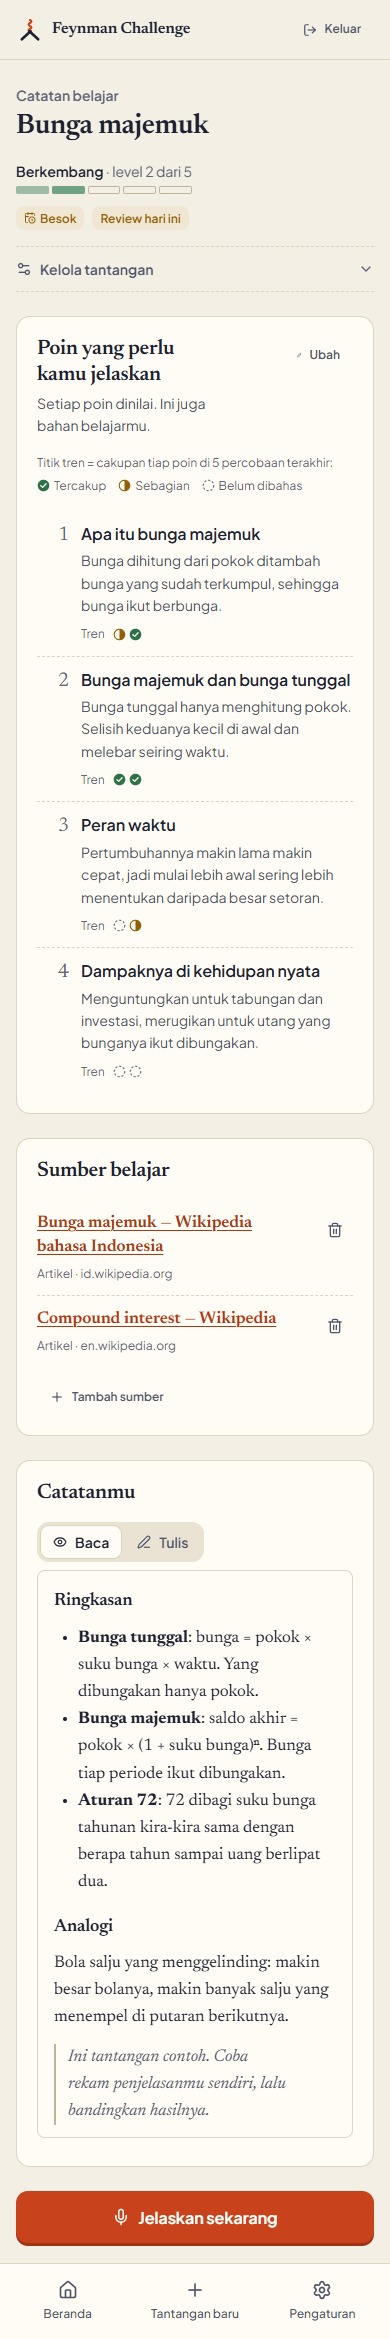
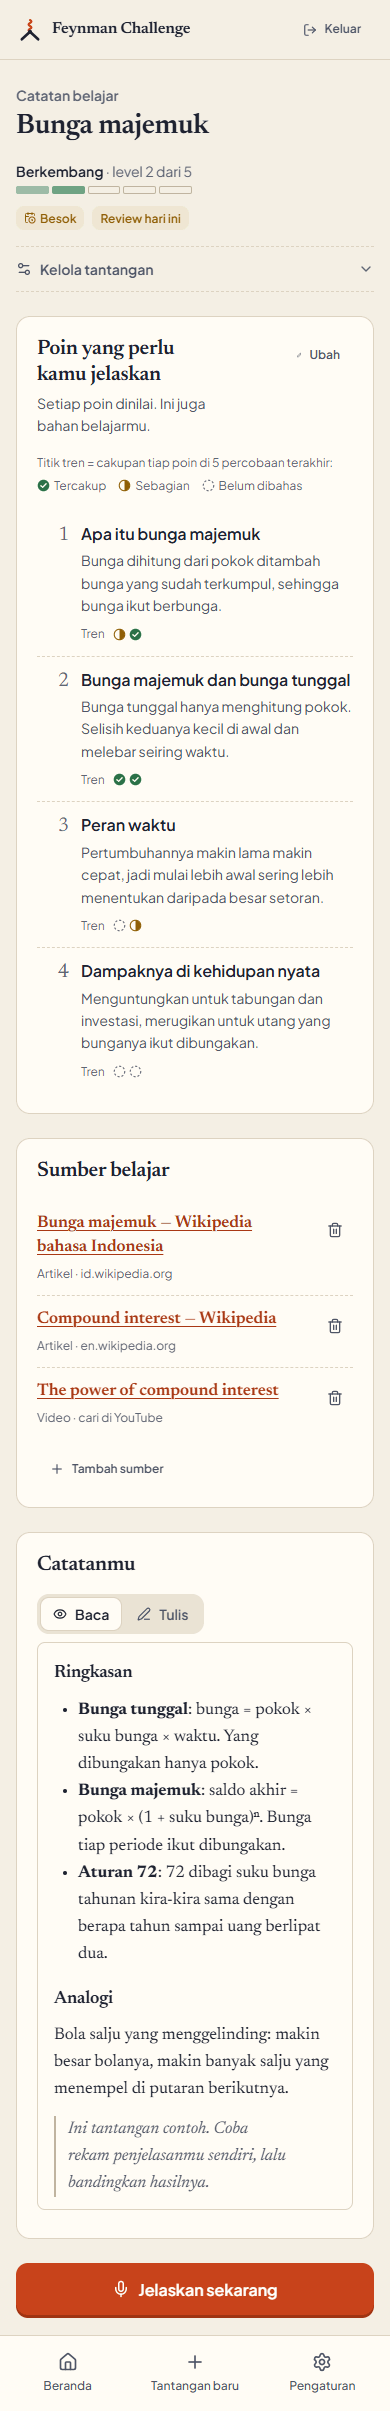
fix: make every learning source title open something
The AI is told never to invent a URL, so most suggested sources arrive
without one, and their titles rendered as plain text nobody could open.
The safeguard worked, but the result looked like a bug and left the
learner with nowhere to go.

A title now always links: to the source's own page when it has a real
http(s) URL, otherwise to a search for that title where that kind of
source lives (YouTube for videos, Google Scholar for papers, Google for
the rest). The small print names the destination ("Video · cari di
YouTube") so a search is never passed off as the page itself, and
screen readers hear that it opens a search. Stored values that are not
http(s) never become hrefs.

The rule lives in src/lib/utils/source-link.ts (tested) and is used by
both the notebook and the plan preview on the create screen. The dev
gallery gains a URL-less source so the common case is on screen.

Changed region(s): [[0.0308, 0.0, 0.9538, 0.9987], [0.8308, 0.4994, 0.8923, 0.593], [0.8, 0.1248, 0.8615, 0.156]]

diff --git a/src/lib/utils/source-link.test.ts b/src/lib/utils/source-link.test.ts
@@ -1,0 +1,71 @@
+import { describe, expect, it } from "vitest";
+
+import { siteName, sourceLink } from "./source-link";
+
+describe("sourceLink", () => {
+  it("opens the source's own page when it has a real URL", () => {
+    expect(
+      sourceLink({
+        title: "Bunga majemuk",
+        url: "https://www.id.wikipedia.org/wiki/Bunga_majemuk",
+        type: "article",
+      }),
+    ).toEqual({
+      href: "https://www.id.wikipedia.org/wiki/Bunga_majemuk",
+      kind: "direct",
+      label: "id.wikipedia.org",
+    });
+  });
+
+  it("searches YouTube for a video without a URL", () => {
+    const link = sourceLink({ title: "How Light Works", url: null, type: "video" });
+    expect(link.kind).toBe("search");
+    expect(link.label).toBe("cari di YouTube");
+    expect(new URL(link.href).origin).toBe("https://www.youtube.com");
+    expect(new URL(link.href).searchParams.get("search_query")).toBe("How Light Works");
+  });
+
+  it("searches Google Scholar for a paper", () => {
+    const link = sourceLink({ title: "Rayleigh scattering", url: null, type: "paper" });
+    expect(new URL(link.href).host).toBe("scholar.google.com");
+    expect(new URL(link.href).searchParams.get("q")).toBe("Rayleigh scattering");
+  });
+
+  it("searches Google for articles, books and anything else", () => {
+    for (const type of ["article", "book", "other"] as const) {
+      const link = sourceLink({ title: "Why Is the Sky Blue?", url: null, type });
+      expect(link.label, type).toBe("cari di Google");
+      expect(new URL(link.href).host, type).toBe("www.google.com");
+      expect(new URL(link.href).searchParams.get("q"), type).toBe("Why Is the Sky Blue?");
+    }
+  });
+
+  it("encodes titles safely instead of building a broken URL", () => {
+    const link = sourceLink({
+      title: "  C++ & Rust: #1 vs 100%?  ",
+      url: null,
+      type: "article",
+    });
+    expect(new URL(link.href).searchParams.get("q")).toBe("C++ & Rust: #1 vs 100%?");
+  });
+
+  it("falls back to a search when the stored URL is not a usable http(s) link", () => {
+    for (const url of ["javascript:alert(1)", "not a url", "ftp://files.example.com/x"]) {
+      const link = sourceLink({ title: "Judul", url, type: "article" });
+      expect(link.kind, url).toBe("search");
+      expect(new URL(link.href).protocol, url).toBe("https:");
+    }
+  });
+});
+
+describe("siteName", () => {
+  it("drops www. and keeps subdomains", () => {
+    expect(siteName("https://www.khanacademy.org/x")).toBe("khanacademy.org");
+    expect(siteName("https://id.wikipedia.org/wiki/A")).toBe("id.wikipedia.org");
+  });
+
+  it("rejects anything that is not http(s)", () => {
+    expect(siteName("javascript:alert(1)")).toBeNull();
+    expect(siteName("nonsense")).toBeNull();
+  });
+});

diff --git a/src/lib/utils/source-link.ts b/src/lib/utils/source-link.ts
@@ -1,0 +1,64 @@
+import type { SourceType } from "@/types";
+
+/**
+ * Where a source's title should lead (V.11).
+ *
+ * The AI is told never to invent a URL (src/lib/gemini/prompts.ts), so most
+ * suggested sources arrive without one. A title nobody can open looks like a
+ * bug, so every title links somewhere: to its own page when it has a real
+ * http(s) URL, otherwise to a search for that title on the place where that
+ * kind of source lives. The label says which, so a search is never passed
+ * off as the page itself.
+ */
+export interface SourceLink {
+  href: string;
+  /** "direct": the source's own page. "search": a search for its title. */
+  kind: "direct" | "search";
+  /** Shown after the type: the site's host, or "cari di YouTube". */
+  label: string;
+}
+
+const SEARCH: Record<SourceType, { base: string; param: string; label: string }> = {
+  video: {
+    base: "https://www.youtube.com/results",
+    param: "search_query",
+    label: "cari di YouTube",
+  },
+  paper: {
+    base: "https://scholar.google.com/scholar",
+    param: "q",
+    label: "cari di Google Scholar",
+  },
+  article: { base: "https://www.google.com/search", param: "q", label: "cari di Google" },
+  book: { base: "https://www.google.com/search", param: "q", label: "cari di Google" },
+  other: { base: "https://www.google.com/search", param: "q", label: "cari di Google" },
+};
+
+/** The host without "www.", or null when the URL is not a usable http(s) link. */
+export function siteName(url: string): string | null {
+  try {
+    const parsed = new URL(url);
+    if (parsed.protocol !== "http:" && parsed.protocol !== "https:") return null;
+    return parsed.hostname.replace(/^www\./, "") || null;
+  } catch {
+    return null;
+  }
+}
+
+export function sourceLink(source: {
+  title: string;
+  url: string | null;
+  type: SourceType;
+}): SourceLink {
+  const site = source.url ? siteName(source.url) : null;
+  if (source.url && site) {
+    return { href: source.url, kind: "direct", label: site };
+  }
+  const search = SEARCH[source.type] ?? SEARCH.other;
+  const params = new URLSearchParams({ [search.param]: source.title.trim() });
+  return {
+    href: `${search.base}?${params.toString()}`,
+    kind: "search",
+    label: search.label,
+  };
+}

diff --git a/src/components/challenge/source-item.tsx b/src/components/challenge/source-item.tsx
@@ -2,6 +2,7 @@ import { Trash2 } from "lucide-react";
 
 import { IconButton } from "@/components/ui/button";
 import { SOURCE_TYPE_META } from "@/lib/utils/labels";
+import { sourceLink } from "@/lib/utils/source-link";
 import type { SourceType } from "@/types";
 
 export interface SourceData {
@@ -17,38 +18,33 @@ interface Props {
   onRemove: (id: string) => void;
 }
 
-function hostname(url: string): string | null {
-  try {
-    return new URL(url).hostname.replace(/^www[.]/, "");
-  } catch {
-    return null;
-  }
-}
-
-/** One entry of the bibliography: title, then type and site in small print. */
+/**
+ * One entry of the bibliography: the title, then its type and where it leads.
+ * The title always opens something (V.11): the source's own page when it has
+ * a URL, otherwise a search for it, and the small print says which.
+ */
 export function SourceItem({ source, disabled, onRemove }: Props) {
   const meta = SOURCE_TYPE_META[source.type];
-  const site = source.url ? hostname(source.url) : null;
+  const link = sourceLink(source);
 
   return (
     <li className="source-entry">
       <div className="stack gap-1 flex-1">
-        {source.url ? (
-          <a
-            href={source.url}
-            target="_blank"
-            rel="noopener noreferrer"
-            className="source-title link-accent"
-          >
-            {source.title}
-            <span className="visually-hidden"> (membuka tab baru)</span>
-          </a>
-        ) : (
-          <span className="source-title">{source.title}</span>
-        )}
+        <a
+          href={link.href}
+          target="_blank"
+          rel="noopener noreferrer"
+          className="source-title link-accent"
+        >
+          {source.title}
+          <span className="visually-hidden">
+            {link.kind === "search"
+              ? " (membuka pencarian di tab baru)"
+              : " (membuka tab baru)"}
+          </span>
+        </a>
         <span className="source-meta">
-          {meta.label}
-          {site ? ` · ${site}` : ""}
+          {meta.label} · {link.label}
         </span>
       </div>
       <IconButton

diff --git a/src/components/challenge/create-form.tsx b/src/components/challenge/create-form.tsx
@@ -18,6 +18,7 @@ import {
 } from "@/lib/api/contracts";
 import { fetchJson } from "@/lib/api/fetch-json";
 import { SOURCE_TYPE_META, formatDuration } from "@/lib/utils/labels";
+import { sourceLink } from "@/lib/utils/source-link";
 
 type Status = "idle" | "generating" | "preview" | "creating";
 
@@ -243,19 +244,25 @@ export function CreateForm() {
                       label={SOURCE_TYPE_META[source.type].label}
                       className="source-type-icon"
                     />
-                    {source.url ? (
+                    {/* Same rule as the notebook: a title always opens something. */}
+                    <span className="stack gap-0">
                       <a
-                        href={source.url}
+                        href={sourceLink(source).href}
                         target="_blank"
                         rel="noopener noreferrer"
                         className="link-accent text-sm"
                       >
                         {source.title}
-                        <span className="visually-hidden"> (membuka tab baru)</span>
+                        <span className="visually-hidden">
+                          {sourceLink(source).kind === "search"
+                            ? " (membuka pencarian di tab baru)"
+                            : " (membuka tab baru)"}
+                        </span>
                       </a>
-                    ) : (
-                      <span className="text-sm">{source.title}</span>
-                    )}
+                      <span className="text-muted text-xs">
+                        {sourceLink(source).label}
+                      </span>
+                    </span>
                   </li>
                 ))}
               </ul>

diff --git a/src/app/dev/galeri/fixtures.ts b/src/app/dev/galeri/fixtures.ts
@@ -138,12 +138,21 @@ export const notebook = {
   reviewBox: 1,
   outline: OUTLINE,
   trend: notebookTrend,
-  sources: DEMO_SOURCES.map((source, index) => ({
-    id: `00000000-0000-4000-8000-00000000020${index}`,
-    title: source.title,
-    url: source.url,
-    type: source.source_type,
-  })),
+  sources: [
+    ...DEMO_SOURCES.map((source, index) => ({
+      id: `00000000-0000-4000-8000-00000000020${index}`,
+      title: source.title,
+      url: source.url,
+      type: source.source_type,
+    })),
+    // The common case for AI suggestions: no URL, so the title opens a search.
+    {
+      id: "00000000-0000-4000-8000-000000000209",
+      title: "The power of compound interest",
+      url: null,
+      type: "video" as const,
+    },
+  ],
   notes: DEMO_NOTES,
 };
 

diff --git a/CHANGELOG.md b/CHANGELOG.md
@@ -4,6 +4,10 @@ All notable changes to Feynman Challenge. The format follows [Keep a Changelog](
 
 ## [Unreleased]
 
+### Every learning source opens something
+
+- **Source titles are always clickable.** The AI is told never to invent a URL, so most suggested sources arrived without one and their titles could not be opened, which looked like a bug. A title now opens the source's own page when it has a real http(s) URL, and otherwise a search for that title: YouTube for videos, Google Scholar for papers, Google for the rest. The small print says which ("Video · cari di YouTube"), so a search is never passed off as the page itself, and screen readers hear "membuka pencarian". Applied in the notebook and in the plan preview when creating a challenge (`src/lib/utils/source-link.ts`, tested).
+
 ### A landing that lets visitors feel the problem (V.10)
 
 Three rounds of landing revisions each fixed a fragment while the approach stayed wrong: the page explained the product instead of the visitor's problem. A concept study ([`docs/design/landing-konsep.html`](docs/design/landing-konsep.html)) started from the visitor instead, and this rebuild follows its recommendation.
